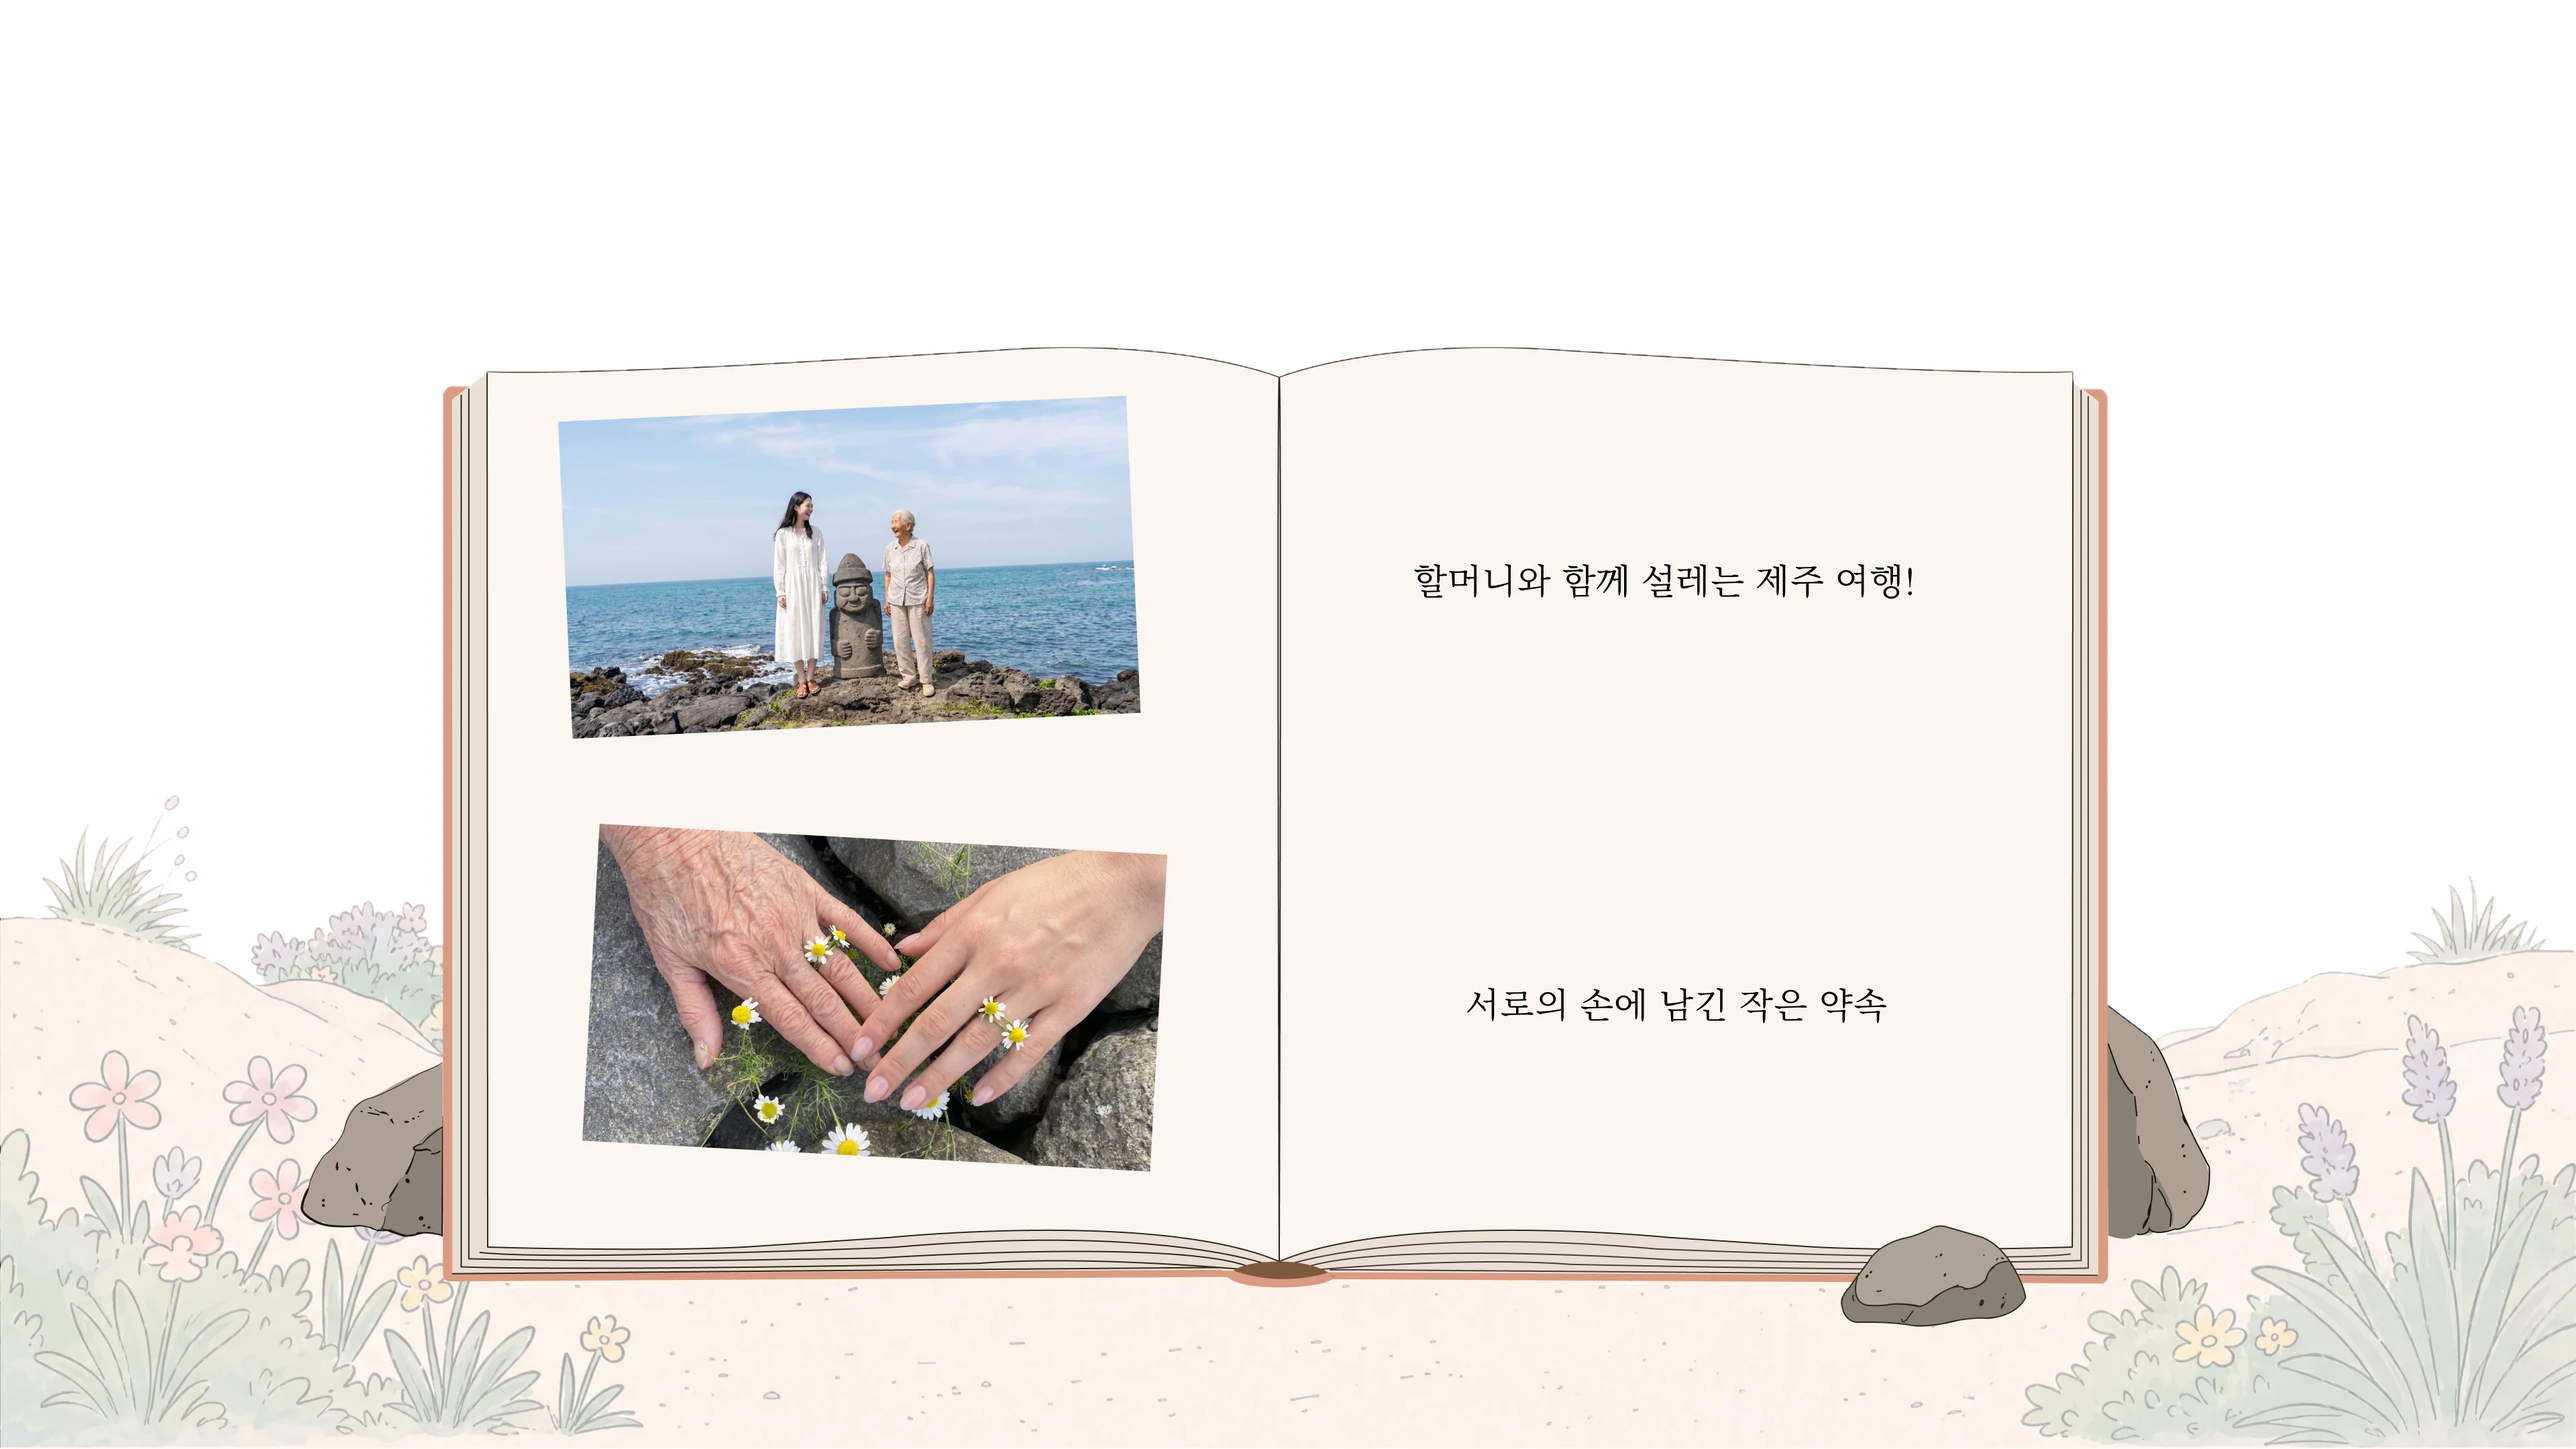
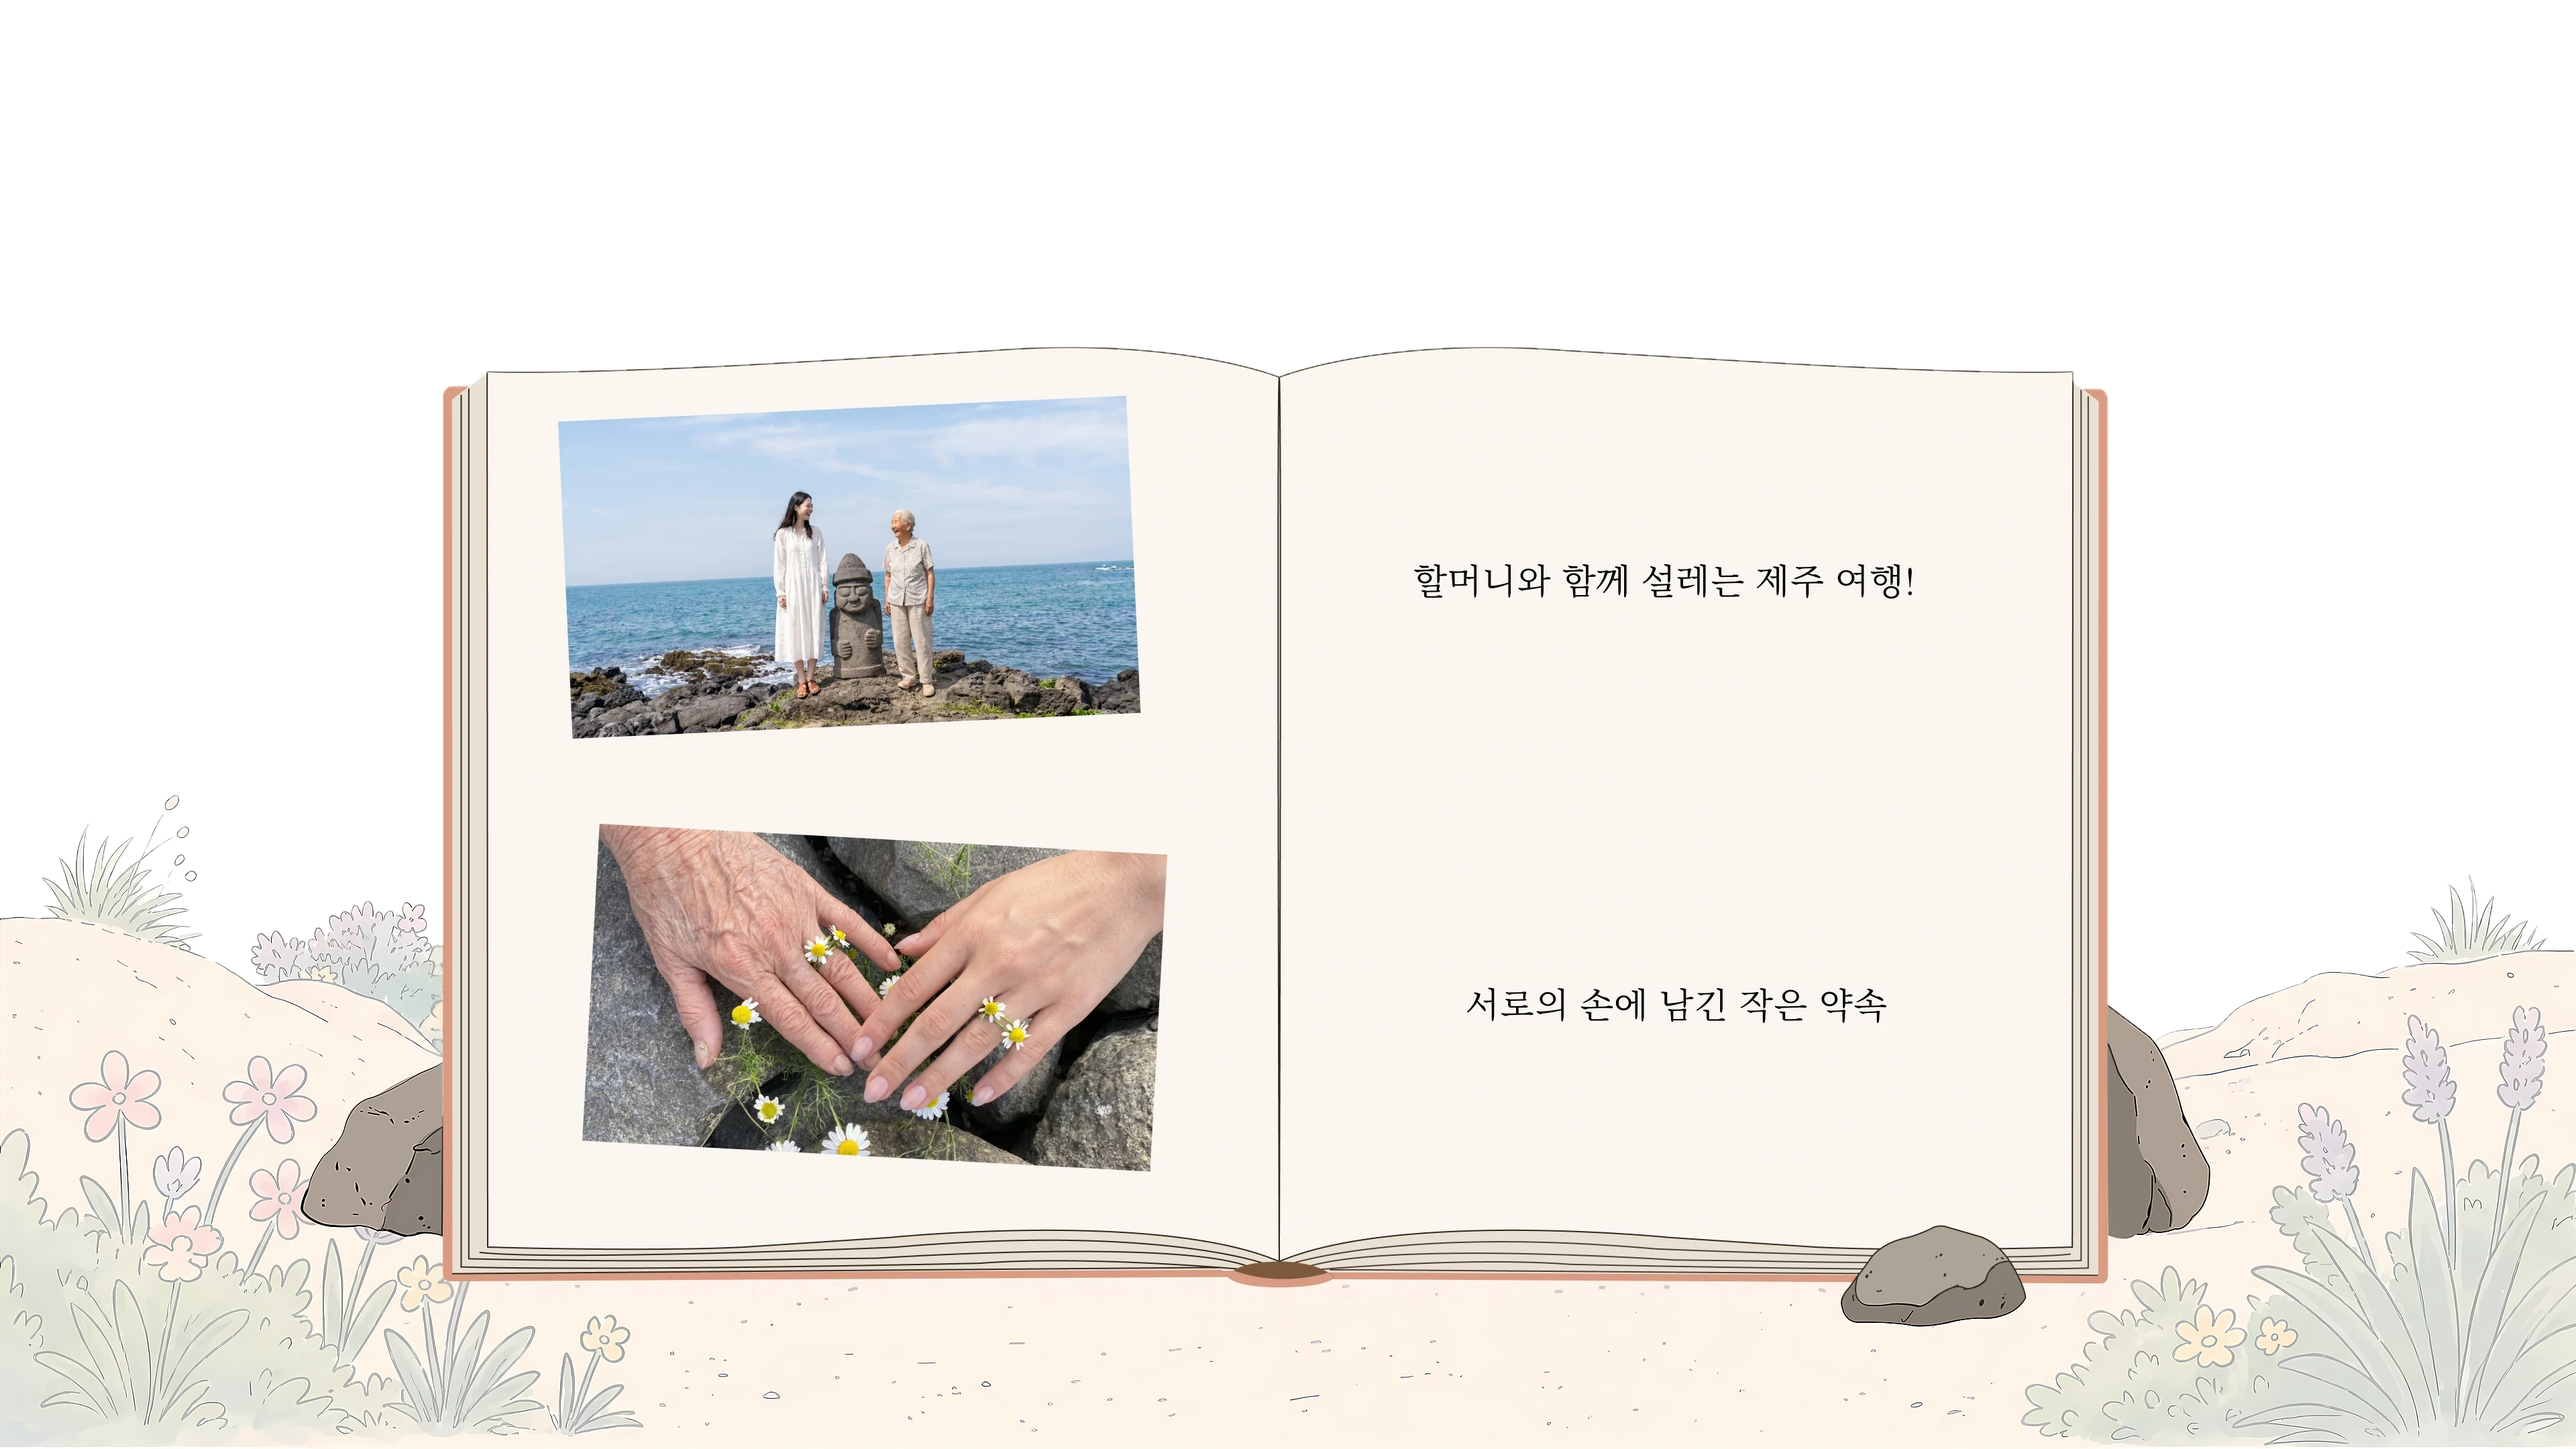
책 화면(저장소 기록)은 책 바깥 그림만 선명하게 (책 속 사진·글씨는 그대로), 테스트 준비 문서에 섬 안쪽 화면 움직임 반영

diff --git a/docs/TEST_READINESS.md b/docs/TEST_READINESS.md
@@ -1,7 +1,7 @@
 # 사용성 테스트 준비 점검 (TEST_READINESS)
 
 - 점검일: 2026-09-29 (처음 점검 기준 커밋 `06059b6`)
-- 갱신: 2026-09-29 — Task 6 안전장치 구현 반영 (커밋 `9a1b6fa`: 중단하기·기본 블러·노출 강도·감상 마치기), 진행자 초기화 화면 `/facilitator` 추가(본 사진·노출 강도·사진 글·메모·넘김 속도), Task 2 로그인 입구 추가, Task 5 과제 문구를 "설정에서 넘김 속도 바꾸기"로 변경, 리캡 멈춤/재생 버튼 추가(10/5), 설정에서 바꾼 넘김 속도를 열려 있는 리캡에 바로 반영(10/5), 인물 편집에 "열람방식 설정하기" 전체 추가(10/5), 섹션 사진 고르기의 정렬·검색과 Gemini AI 사진 분류·태그 고치기(10/5), "보고 싶지 않은 기록" 걸러내기(10/5), 기일 추모 섬(10/6): 지도에 고정 섬 3개만 두고, 기일 7일 전~3일 후에만 고인의 섬이 팝업으로 물어본 뒤 떠오름, 지도 섬 이름을 늘 보이는 나무 팻말로(10/6), 지도 바다에 일렁이는 물결(10/6), 지도 그림 선명하게·모래길 방향 변경(10/6), 지도에 움직임(갈매기·하늘 새·구름·야자수·꽃, 10/6)
+- 갱신: 2026-09-29 — Task 6 안전장치 구현 반영 (커밋 `9a1b6fa`: 중단하기·기본 블러·노출 강도·감상 마치기), 진행자 초기화 화면 `/facilitator` 추가(본 사진·노출 강도·사진 글·메모·넘김 속도), Task 2 로그인 입구 추가, Task 5 과제 문구를 "설정에서 넘김 속도 바꾸기"로 변경, 리캡 멈춤/재생 버튼 추가(10/5), 설정에서 바꾼 넘김 속도를 열려 있는 리캡에 바로 반영(10/5), 인물 편집에 "열람방식 설정하기" 전체 추가(10/5), 섹션 사진 고르기의 정렬·검색과 Gemini AI 사진 분류·태그 고치기(10/5), "보고 싶지 않은 기록" 걸러내기(10/5), 기일 추모 섬(10/6): 지도에 고정 섬 3개만 두고, 기일 7일 전~3일 후에만 고인의 섬이 팝업으로 물어본 뒤 떠오름, 지도 섬 이름을 늘 보이는 나무 팻말로(10/6), 지도 바다에 일렁이는 물결(10/6), 지도 그림 선명하게·모래길 방향 변경(10/6), 지도에 움직임(갈매기·하늘 새·구름·야자수·꽃, 10/6), 섬 안쪽 화면(마이랜드·추모 커뮤니티·저장소·저장소 안·김영희님의 섬)에도 같은 움직임과 선명한 그림(10/6)
 - 점검 방법: 코드를 직접 읽고, 로컬 DB(Supabase)의 현재 데이터를 조회해서 확인했어요. 코드는 고치지 않았어요.
 - 상태 표시
   - **[동작함]**: 실제 데이터로 저장·불러오기까지 됨
@@ -79,11 +79,11 @@
 |---|---|---|---|
 | 1 | 온보딩(로고) `/` | `app/page.tsx` | [동작함] 로그인 안 했으면 로고 + 한 줄 소개("소중한 분의 기억을 다시 만나는 곳") + "Google로 시작하기"·"먼저 둘러볼게요". 로그인했으면 로고 3초 → 전체 지도 |
 | 2 | 전체 지도 `/mainland` | `app/mainland/page.tsx` | [동작함] 고정 섬 3개(추모 커뮤니티·메인 랜드·저장소), 섬마다 이름이 적힌 **나무 팻말**이 늘 보임 (`components/IslandSign.tsx`). 바다에는 물결이 천천히 일렁임 (`components/SeaWaves.tsx`). 메인 랜드 모래밭을 갈매기가 걸어다니며 바닥을 쪼고(`IslandSeagull.tsx`), 하늘엔 새 두 마리가 날고(`SkyBird.tsx`), 손그림 구름이 흘러가고(`DriftingClouds.tsx`, 기분 하늘마다 구름 색이 다름), 메인 랜드의 야자수·꽃·덤불과 추모 커뮤니티 섬 돌기둥 아래 꽃밭과 덩굴, 저장소 섬 집 아래 덤불·벽 덩굴이 살랑임(`SwayingPlants.tsx`), 저장소 섬 깃발이 펄럭임(`WavingFlag.tsx`). 컴퓨터의 "동작 줄이기" 설정이면 모두 멈춤. 기일 기간이면 고인의 섬이 더 떠오름(아래 2-4) |
-| 2-1 | └ 추모 커뮤니티 섬 → `/community` | `app/community/page.tsx` | [UI만 있음] 목록 4개 중 세월호만 들어가짐, 인원수(278·190)는 예시 숫자 |
+| 2-1 | └ 추모 커뮤니티 섬 → `/community` | `app/community/page.tsx` | [UI만 있음] 목록 4개 중 세월호만 들어가짐, 인원수(278·190)는 예시 숫자. 배경에 바다 물결·구름·새·돌 사이 꽃이 움직임 |
 | 2-2 | └ 메인 랜드 섬 → `/myland` | `app/myland/page.tsx` | [동작함] (Task 3 참고) |
-| 2-3 | └ 저장소 섬 → `/storage` | `app/storage/`, `app/storageinside/`, `app/storagemanual/` | [UI만 있음] 예시 검색 결과·사진 |
+| 2-3 | └ 저장소 섬 → `/storage` | `app/storage/`, `app/storageinside/`, `app/storagemanual/` | [UI만 있음] 예시 검색 결과·사진. 저장소·저장소 안 배경에 바다 물결·구름·새·덤불(저장소 안은 화분·꽃병도)이 움직임, 책 화면은 책 바깥 그림만 선명하게 |
 | 2-4 | └ 기일 추모 섬 → `/island/<고인 ID>` | `app/mainland/page.tsx`, `app/island/[deceasedId]/page.tsx`, `lib/islands.ts`, `lib/anniversary.ts` | [동작함] 기일 7일 전~3일 후에 "○○의 추모 섬을 열까요?" 팝업 → "섬 열기"면 지도 왼쪽·오른쪽 아래에 섬이 떠오름(최대 2개). 고인마다 섬 모양·꽃 색이 다름. 섬 안은 가족만 쓰는 추모 메시지 벽(글·그림·사진) |
-| 2-5 | └ (예전) 김영희님의 섬 `/KYHdrawing` | `app/KYHdrawing/page.tsx` | 지도에서 뺐어요. 주소로는 아직 들어갈 수 있음. 한순애님의 섬도 지도에서 뺌 |
+| 2-5 | └ (예전) 김영희님의 섬 `/KYHdrawing` | `app/KYHdrawing/page.tsx` | 지도에서 뺐어요. 주소로는 아직 들어갈 수 있음 (배경에 바다 물결·구름·새·바위 아래 꽃이 움직임). 한순애님의 섬도 지도에서 뺌 |
 | 3 | 상단 `소개` → `/about` | `app/about/page.tsx` | [동작함] 긴 이미지 한 장 (브랜드 문구가 **이미지 속 글자**) |
 | 4 | 상단 알림 | `app/components/TopNav.tsx` | [UI만 있음] `DEFAULT_NOTIFICATIONS` 예시 알림 |
 | 5 | 상단 음악 | `app/components/TopNav.tsx` | [동작함] |
@@ -151,7 +151,7 @@
 |---|---|---|---|
 | 1 | 전체 지도 → "메인 랜드" 섬 | `app/mainland/page.tsx` | [동작함] |
 | 2 | 기분 체크 (자동으로 거침) | `app/moodcheck/page.tsx` | [동작함] 기분 저장, 하늘 색 바뀜. × 로 건너뛰기 가능 |
-| 3 | 메인 랜드: 캐릭터들이 섬 위에 서 있음 | `app/myland/page.tsx` | [동작함] 호버하면 이름, 끌어서 자리 옮기기, 우클릭하면 Drive 연결 상태 |
+| 3 | 메인 랜드: 캐릭터들이 섬 위에 서 있음 | `app/myland/page.tsx` | [동작함] 호버하면 이름, 끌어서 자리 옮기기, 우클릭하면 Drive 연결 상태. 배경에 바다 물결·구름·새·갈매기·야자수와 꽃이 움직임 (캐릭터 뒤로 지나감) |
 | 4 | 캐릭터 클릭 → 그 인물의 책장 | `app/archiveshelf/page.tsx` | [동작함] |
 | — | 메인 랜드 "📄 감정 기록 돌아보기" | `app/myland/page.tsx` | [UI만 있음] 그래프·기간 모두 예시 데이터 (`EMOTION_BARS`) |
 | — | 메인 랜드 빈 곳 더블클릭 → 기일 안내 창 | `app/myland/page.tsx` | [UI만 있음] 예시 날짜 |
